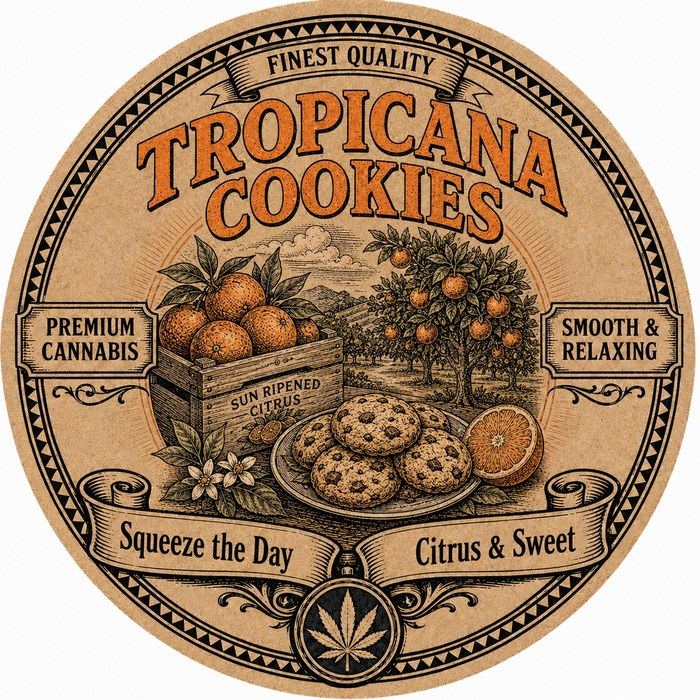
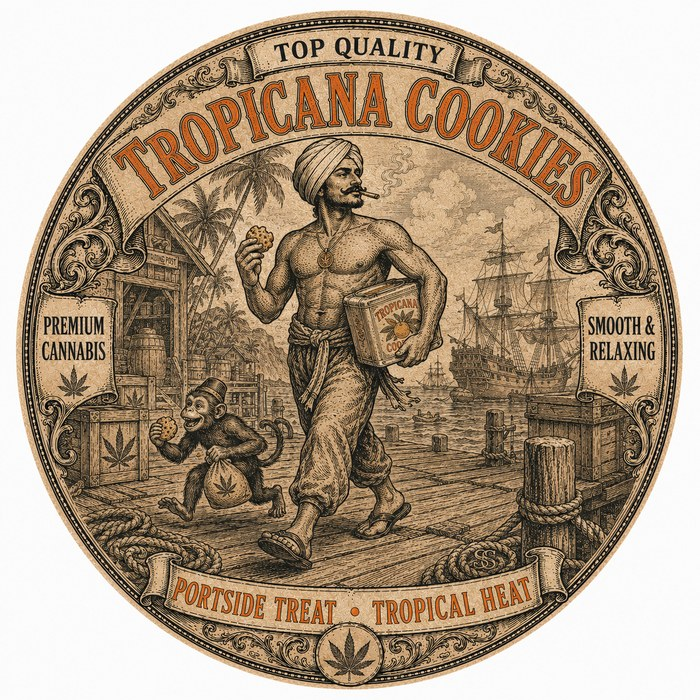
feat: ingest 24 new labels (catalog 254)
New art drop: +24 labels across cartoon/pin-up/cigarette for apple-fritter,
biscotti, black-garlic, blue-dream, blueberry-muffin, chemdawg, do-si-dos,
gelato, gmo-cookies, kush-mints, mimosa, permanent-marker, slurricane,
super-boof, tropicana-cookies, wedding-cake. Added strain Permanent Marker.
Auto-optimized on import (downscaled + JPEG). All names auto-resolved.

diff --git a/labelCatalog.js b/labelCatalog.js
@@ -6,7 +6,7 @@
 
 const LABEL_CATALOG = [
 
-    // Cigarette Series (41)
+    // Cigarette Series (44)
     {
         strain: "AK-47",
         strainSlug: "ak-47",
@@ -56,6 +56,14 @@ const LABEL_CATALOG = [
         labelId: "CIGA-BLACK-GARLIC-ALT"
     },
     {
+        strain: "Black Garlic",
+        strainSlug: "black-garlic",
+        series: "Cigarette Series",
+        seriesSlug: "cigarette",
+        image: "public/labels/black-garlic/cigarette-main.jpg",
+        labelId: "CIGA-BLACK-GARLIC-MAIN"
+    },
+    {
         strain: "Blue Dream",
         strainSlug: "blue-dream",
         series: "Cigarette Series",
@@ -70,6 +78,14 @@ const LABEL_CATALOG = [
         seriesSlug: "cigarette",
         image: "public/labels/blueberry-muffin/cigarette-alt.jpg",
         labelId: "CIGA-BLUEBERRY-MUFFIN-ALT"
+    },
+    {
+        strain: "Blueberry Muffin",
+        strainSlug: "blueberry-muffin",
+        series: "Cigarette Series",
+        seriesSlug: "cigarette",
+        image: "public/labels/blueberry-muffin/cigarette-main.jpg",
+        labelId: "CIGA-BLUEBERRY-MUFFIN-MAIN"
     },
     {
         strain: "Bubba Kush",
@@ -198,6 +214,14 @@ const LABEL_CATALOG = [
         seriesSlug: "cigarette",
         image: "public/labels/mac/cigarette-main.jpg",
         labelId: "CIGA-MAC-MAIN"
+    },
+    {
+        strain: "Mimosa",
+        strainSlug: "mimosa",
+        series: "Cigarette Series",
+        seriesSlug: "cigarette",
+        image: "public/labels/mimosa/cigarette-main.jpg",
+        labelId: "CIGA-MIMOSA-MAIN"
     },
     {
         strain: "Mochi",
@@ -336,7 +360,7 @@ const LABEL_CATALOG = [
         labelId: "CIGA-ZKITTLEZ-MAIN"
     },
 
-    // Pin-Up Series (43)
+    // Pin-Up Series (57)
     {
         strain: "Animal Face",
         strainSlug: "animal-face",
@@ -344,6 +368,22 @@ const LABEL_CATALOG = [
         seriesSlug: "pinup",
         image: "public/labels/animal-face/pinup-main.jpg",
         labelId: "PIN-ANIMAL-FACE-MAIN"
+    },
+    {
+        strain: "Apple Fritter",
+        strainSlug: "apple-fritter",
+        series: "Pin-Up Series",
+        seriesSlug: "pinup",
+        image: "public/labels/apple-fritter/pinup-main.jpg",
+        labelId: "PIN-APPLE-FRITTER-MAIN"
+    },
+    {
+        strain: "Black Garlic",
+        strainSlug: "black-garlic",
+        series: "Pin-Up Series",
+        seriesSlug: "pinup",
+        image: "public/labels/black-garlic/pinup-main.jpg",
+        labelId: "PIN-BLACK-GARLIC-MAIN"
     },
     {
         strain: "Blue Dream",
@@ -358,8 +398,40 @@ const LABEL_CATALOG = [
         strainSlug: "blue-dream",
         series: "Pin-Up Series",
         seriesSlug: "pinup",
+        image: "public/labels/blue-dream/pinup-alt3.jpg",
+        labelId: "PIN-BLUE-DREAM-ALT3"
+    },
+    {
+        strain: "Blue Dream",
+        strainSlug: "blue-dream",
+        series: "Pin-Up Series",
+        seriesSlug: "pinup",
         image: "public/labels/blue-dream/pinup-main.jpg",
         labelId: "PIN-BLUE-DREAM-MAIN"
+    },
+    {
+        strain: "Blueberry Muffin",
+        strainSlug: "blueberry-muffin",
+        series: "Pin-Up Series",
+        seriesSlug: "pinup",
+        image: "public/labels/blueberry-muffin/pinup-alt3.jpg",
+        labelId: "PIN-BLUEBERRY-MUFFIN-ALT3"
+    },
+    {
+        strain: "Blueberry Muffin",
+        strainSlug: "blueberry-muffin",
+        series: "Pin-Up Series",
+        seriesSlug: "pinup",
+        image: "public/labels/blueberry-muffin/pinup-alt4.jpg",
+        labelId: "PIN-BLUEBERRY-MUFFIN-ALT4"
+    },
+    {
+        strain: "Blueberry Muffin",
+        strainSlug: "blueberry-muffin",
+        series: "Pin-Up Series",
+        seriesSlug: "pinup",
+        image: "public/labels/blueberry-muffin/pinup-alt5.jpg",
+        labelId: "PIN-BLUEBERRY-MUFFIN-ALT5"
     },
     {
         strain: "Bubba Kush",
@@ -470,8 +542,32 @@ const LABEL_CATALOG = [
         strainSlug: "gelato",
         series: "Pin-Up Series",
         seriesSlug: "pinup",
+        image: "public/labels/gelato/pinup-alt1.jpg",
+        labelId: "PIN-GELATO-ALT1"
+    },
+    {
+        strain: "Gelato",
+        strainSlug: "gelato",
+        series: "Pin-Up Series",
+        seriesSlug: "pinup",
+        image: "public/labels/gelato/pinup-alt3.jpg",
+        labelId: "PIN-GELATO-ALT3"
+    },
+    {
+        strain: "Gelato",
+        strainSlug: "gelato",
+        series: "Pin-Up Series",
+        seriesSlug: "pinup",
         image: "public/labels/gelato/pinup-main.jpg",
         labelId: "PIN-GELATO-MAIN"
+    },
+    {
+        strain: "GMO Cookies",
+        strainSlug: "gmo-cookies",
+        series: "Pin-Up Series",
+        seriesSlug: "pinup",
+        image: "public/labels/gmo-cookies/pinup-main.jpg",
+        labelId: "PIN-GMO-COOKIES-MAIN"
     },
     {
         strain: "Gorilla Glue",
@@ -562,6 +658,14 @@ const LABEL_CATALOG = [
         labelId: "PIN-OG-KUSH-MAIN"
     },
     {
+        strain: "Permanent Marker",
+        strainSlug: "permanent-marker",
+        series: "Pin-Up Series",
+        seriesSlug: "pinup",
+        image: "public/labels/permanent-marker/pinup-main.jpg",
+        labelId: "PIN-PERMANENT-MARKER-MAIN"
+    },
+    {
         strain: "Pineapple Express",
         strainSlug: "pineapple-express",
         series: "Pin-Up Series",
@@ -650,6 +754,22 @@ const LABEL_CATALOG = [
         labelId: "PIN-STRAWBERRY-COUGH-MAIN"
     },
     {
+        strain: "Super Boof",
+        strainSlug: "super-boof",
+        series: "Pin-Up Series",
+        seriesSlug: "pinup",
+        image: "public/labels/super-boof/pinup-alt.jpg",
+        labelId: "PIN-SUPER-BOOF-ALT"
+    },
+    {
+        strain: "Tropicana Cookies",
+        strainSlug: "tropicana-cookies",
+        series: "Pin-Up Series",
+        seriesSlug: "pinup",
+        image: "public/labels/tropicana-cookies/pinup-main.jpg",
+        labelId: "PIN-TROPICANA-COOKIES-MAIN"
+    },
+    {
         strain: "Vanilla Frosting",
         strainSlug: "vanilla-frosting",
         series: "Pin-Up Series",
@@ -664,6 +784,22 @@ const LABEL_CATALOG = [
         seriesSlug: "pinup",
         image: "public/labels/vanilla-frosting/pinup-main.jpg",
         labelId: "PIN-VANILLA-FROSTING-MAIN"
+    },
+    {
+        strain: "Wedding Cake",
+        strainSlug: "wedding-cake",
+        series: "Pin-Up Series",
+        seriesSlug: "pinup",
+        image: "public/labels/wedding-cake/pinup-alt1.jpg",
+        labelId: "PIN-WEDDING-CAKE-ALT1"
+    },
+    {
+        strain: "Wedding Cake",
+        strainSlug: "wedding-cake",
+        series: "Pin-Up Series",
+        seriesSlug: "pinup",
+        image: "public/labels/wedding-cake/pinup-main.jpg",
+        labelId: "PIN-WEDDING-CAKE-MAIN"
     },
     {
         strain: "White Widow",
@@ -682,7 +818,15 @@ const LABEL_CATALOG = [
         labelId: "PIN-ZOOKIES-MAIN"
     },
 
-    // Early Cartoon Series (25)
+    // Early Cartoon Series (32)
+    {
+        strain: "Biscotti",
+        strainSlug: "biscotti",
+        series: "Early Cartoon Series",
+        seriesSlug: "cartoon",
+        image: "public/labels/biscotti/cartoon-main.jpg",
+        labelId: "CART-BISCOTTI-MAIN"
+    },
     {
         strain: "Blue Dream",
         strainSlug: "blue-dream",
@@ -708,6 +852,22 @@ const LABEL_CATALOG = [
         labelId: "CART-CANDYLAND-MAIN"
     },
     {
+        strain: "Chemdawg",
+        strainSlug: "chemdawg",
+        series: "Early Cartoon Series",
+        seriesSlug: "cartoon",
+        image: "public/labels/chemdawg/cartoon-alt3.jpg",
+        labelId: "CART-CHEMDAWG-ALT3"
+    },
+    {
+        strain: "Do-Si-Dos",
+        strainSlug: "do-si-dos",
+        series: "Early Cartoon Series",
+        seriesSlug: "cartoon",
+        image: "public/labels/do-si-dos/cartoon-main.jpg",
+        labelId: "CART-DO-SI-DOS-MAIN"
+    },
+    {
         strain: "Durban Poison",
         strainSlug: "durban-poison",
         series: "Early Cartoon Series",
@@ -722,6 +882,14 @@ const LABEL_CATALOG = [
         seriesSlug: "cartoon",
         image: "public/labels/forbidden-fruit/cartoon-main.jpg",
         labelId: "CART-FORBIDDEN-FRUIT-MAIN"
+    },
+    {
+        strain: "GMO Cookies",
+        strainSlug: "gmo-cookies",
+        series: "Early Cartoon Series",
+        seriesSlug: "cartoon",
+        image: "public/labels/gmo-cookies/cartoon-main.jpg",
+        labelId: "CART-GMO-COOKIES-MAIN"
     },
     {
         strain: "Gorilla Glue",
@@ -754,6 +922,14 @@ const LABEL_CATALOG = [
         seriesSlug: "cartoon",
         image: "public/labels/jack-herer/cartoon-main.jpg",
         labelId: "CART-JACK-HERER-MAIN"
+    },
+    {
+        strain: "Kush Mints",
+        strainSlug: "kush-mints",
+        series: "Early Cartoon Series",
+        seriesSlug: "cartoon",
+        image: "public/labels/kush-mints/cartoon-main.jpg",
+        labelId: "CART-KUSH-MINTS-MAIN"
     },
     {
         strain: "Mimosa",
@@ -810,6 +986,22 @@ const LABEL_CATALOG = [
         seriesSlug: "cartoon",
         image: "public/labels/runtz/cartoon-alt2.jpg",
         labelId: "CART-RUNTZ-ALT2"
+    },
+    {
+        strain: "Slurricane",
+        strainSlug: "slurricane",
+        series: "Early Cartoon Series",
+        seriesSlug: "cartoon",
+        image: "public/labels/slurricane/cartoon-alt1.jpg",
+        labelId: "CART-SLURRICANE-ALT1"
+    },
+    {
+        strain: "Slurricane",
+        strainSlug: "slurricane",
+        series: "Early Cartoon Series",
+        seriesSlug: "cartoon",
+        image: "public/labels/slurricane/cartoon-main.jpg",
+        labelId: "CART-SLURRICANE-MAIN"
     },
     {
         strain: "Sour Diesel",